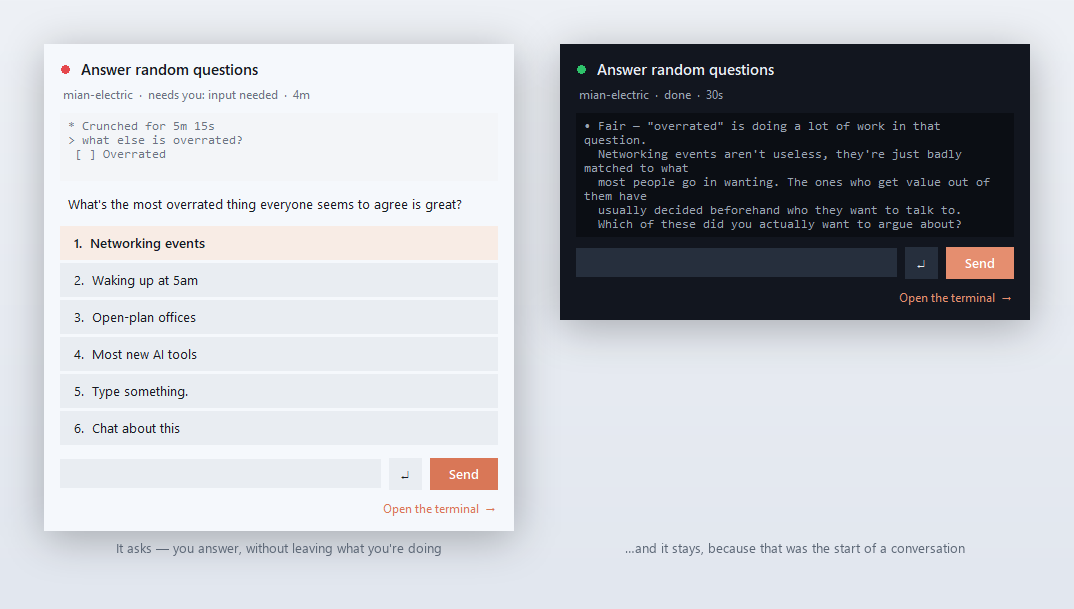
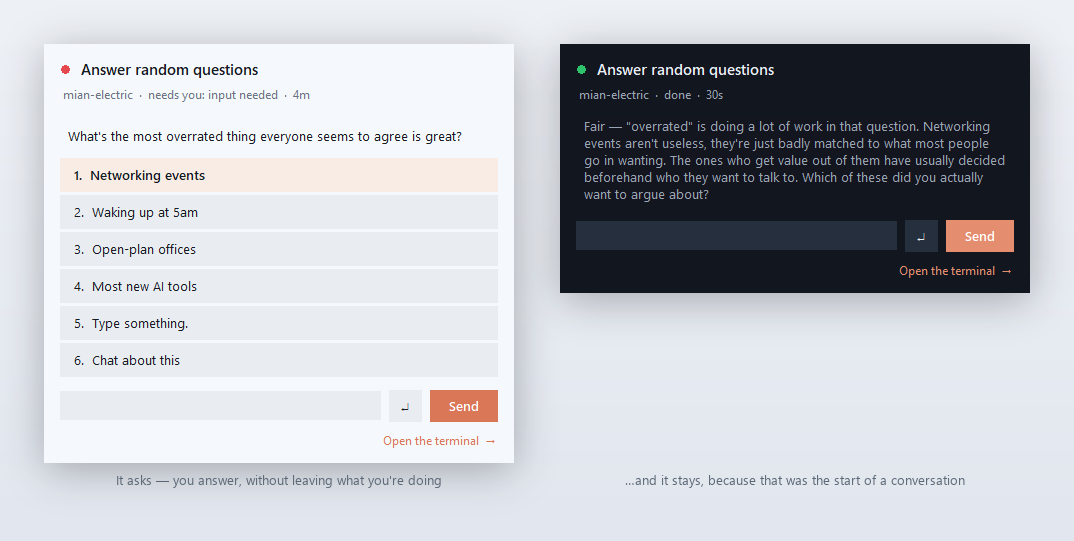
Drop the terminal mirror; say what the session said, once
The window carried a monospace copy of the session's screen above the
question. With the question and its choices drawn cleanly right below it,
that was the same thing twice — and the worse of the two: wrapped to the
terminal's width, studded with glyphs no UI font has, and full of Claude
Code's bookkeeping about how long it thought and what a tool returned.

The one thing it was carrying is the conversation. After "chat about this"
there is no question, and with nothing showing the reply the window would be
blank. So that case gets a sentence instead of a screen: what the session has
said since you last typed, rejoined into prose.

Since you last typed is the useful boundary. Everything above it you have
already read and answered; what is worth putting in front of you is the part
you haven't. Finding it means telling your input apart from the menu's
highlight marker — both begin with ">" — so a numbered option is explicitly
not treated as something you typed.

And when there is a question, the transcript is left out entirely.

The panel's absence takes its complications with it: no measuring wrapped
display lines against a widget that has no width yet, no second layout pass,
no history cap, no glyph substitution table.

diff --git a/widget_bar.py b/widget_bar.py
@@ -525,16 +525,13 @@ class AnswerWindow:
     not the end of one, and a window that vanished would send you to the
     terminal for the very thing it exists to save you.
 
-    So it stays, mirrors the session's own screen, and keeps taking input.
+    So it stays, shows what the session says back, and keeps taking input.
     Reading and writing both go by process id, so it follows that session
     whichever terminal tab it lives in.
     """
 
     W = 470
     POLL_MS = 900
-    VIEW_LINES = 14
-    MIN_LINES = 4
-    HISTORY = 40
 
     def __init__(self, root, theme, row, on_send, on_open_terminal,
                  poll=None, on_close=None):
@@ -593,20 +590,15 @@ class AnswerWindow:
         # Emptying one and leaving it in place does NOT work: Tk keeps the
         # height the frame last asked for, which leaves a band of dead space
         # where a question used to be.
-        self._view_box = tk.Frame(pad, bg=bg)
-        # A live mirror of the session's own screen: the conversation itself,
-        # which is what makes "chat about this" answerable from here.
-        # width=1 so the mirror never dictates how wide the window is — it
-        # fills whatever the question and the buttons ask for. wrap="word"
-        # because a terminal wider than this panel would otherwise have its
-        # lines quietly cut off at the right edge.
-        self._view = tk.Text(self._view_box, width=1, height=self.MIN_LINES,
-                             bg=T["key"], fg=dim, bd=0, relief="flat",
-                             wrap="word", font=("Consolas", 9),
-                             highlightthickness=0, insertwidth=0,
-                             padx=8, pady=6)
-        self._view.pack(fill="both", expand=True)
-        self._view.configure(state="disabled")
+        # What the session has said since you last typed — and only that. It
+        # carries the window while a conversation is going, and stays away
+        # entirely when there is a question, which says the same thing better
+        # in the lines right below.
+        self._reply_box = tk.Frame(pad, bg=bg)
+        self._reply = tk.Message(self._reply_box, text="", bg=bg, fg=dim,
+                                 font=("Segoe UI", 10), width=self.W - 44,
+                                 anchor="w", justify="left")
+        self._reply.pack(fill="x")
 
         self._note_box = tk.Frame(pad, bg=bg)
         self._note = tk.Label(self._note_box, text="", bg=bg, fg=dim,
@@ -657,7 +649,7 @@ class AnswerWindow:
         # Top to bottom. Sections not currently in use are left out entirely
         # rather than packed empty.
         self._sections = (
-            (self._view_box, {"fill": "both", "expand": True}),
+            (self._reply_box, {"fill": "x", "pady": (0, 4)}),
             (self._note_box, {"fill": "x", "pady": (8, 0)}),
             (self._q_box, {"fill": "x", "pady": (10, 4)}),
             (self._opts, {"fill": "x", "pady": (6, 0)}),
@@ -669,14 +661,6 @@ class AnswerWindow:
         self._render(self.row)
         self._place(root)
         self._tick()
-        # A second pass: the first one gave the window its size, and only now
-        # does the mirror have a width to measure its own wrapping against.
-        try:
-            self.top.update_idletasks()
-            self._show_screen(self._lines, self._upto)
-            self._place()
-        except Exception:
-            pass
         try:
             self.top.lift()
             self.top.focus_force()
@@ -736,8 +720,8 @@ class AnswerWindow:
             pass
 
     def _wanted(self, box):
-        if box is self._view_box:
-            return bool(self._lines)
+        if box is self._reply_box:
+            return bool(self._reply.cget("text"))
         if box is self._note_box:
             return bool(self._note.cget("text"))
         if box is self._q_box:
@@ -802,37 +786,15 @@ class AnswerWindow:
                       cursor="hand2").pack(side="left", padx=(0, 8),
                                            pady=(10, 0))
 
-    def _show_screen(self, lines, upto=None):
-        """Mirror the session's screen, stopping where the menu begins.
+    def _show_reply(self, lines, upto=None, question=""):
+        """Show what the session said, unless it is about to ask it anyway.
 
-        The choices are already drawn as buttons below; showing them twice
-        would just push the buttons off the bottom.
+        With a question on screen this would be the same words twice — the
+        transcript of it above, the point of it below.
         """
         try:
-            # Keep more than fits: the panel auto-sizes to VIEW_LINES, but a
-            # window the user has stretched should reward them with the
-            # history that was already there rather than more empty grey.
-            keep = sessions_core.screen_text(lines, upto, self.HISTORY)
-            self._view.configure(state="normal")
-            self._view.delete("1.0", "end")
-            self._view.insert("1.0", "\n".join(keep))
-            # Fit the panel to what's in it. A fixed height leaves a slab of
-            # empty grey above a two-line exchange, and hides half a long one.
-            shown = len(keep)
-            try:
-                # Settle the layout first: until the panel has its real width
-                # every line "wraps" into dozens, and the count comes back as
-                # the maximum every time.
-                self._view.update_idletasks()
-                if self._view.winfo_width() > 1:
-                    shown = int(
-                        self._view.count("1.0", "end", "displaylines")[0])
-            except Exception:
-                pass
-            self._view.configure(
-                height=max(self.MIN_LINES, min(self.VIEW_LINES, shown)))
-            self._view.see("end")
-            self._view.configure(state="disabled")
+            text = "" if question else sessions_core.latest_reply(lines, upto)
+            self._reply.configure(text=text)
         except Exception:
             pass
 
@@ -902,10 +864,10 @@ class AnswerWindow:
         if self.alive:
             self._lines = state.get("lines")
             self._upto = prompt["start"] if prompt else None
-            self._show_screen(self._lines, self._upto)
+            self._show_reply(self._lines, self._upto, row.get("question"))
         if not self.alive:
-            # Keep the last screen up — it is the only remaining record of what
-            # the session said — but nothing can be sent to it any more.
+            # The last thing it said stays up — it is the only remaining
+            # record of it — but nothing can be sent to it any more.
             self._set_note("This session has ended.")
             self._disable()
         elif not self.readable:

diff --git a/tests/test_sessions_core.py b/tests/test_sessions_core.py
@@ -951,41 +951,63 @@ def test_parse_console_prompt_marker_elsewhere():
     assert out["selected"] == 2 and len(out["options"]) == 3
 
 
-def test_screen_text_drops_the_furniture():
-    out = sc.screen_text(REAL_SCREEN)
-    assert "─────────────────────────────────────────────────" not in out, (
-        "a rule wraps onto two lines in a narrow panel and says nothing")
-    assert "> again" in out, "what the user typed is not furniture"
+# --------------------------------------------------------------------------- #
+# What a session has said since you last typed
+# --------------------------------------------------------------------------- #
+TALKING = [
+    "⏺ An older answer you have already read.",
+    "> put the breaking changes at the top",
+    "⏺ Right — they get their own section, above everything else.",
+    "  Two of the four are only breaking if you were relying on the old",
+    "  default, so I'll say which.",
+    "",
+    "  Do you want the old default documented as well?",
+    "> ",
+]
 
 
-def test_screen_text_stops_at_the_prompt():
+def test_latest_reply_starts_after_your_last_input():
+    out = sc.latest_reply(TALKING)
+    assert out.startswith("Right — they get their own section")
+    assert "already read" not in out, (
+        "you answered that one — what makes this worth showing is the part "
+        "you haven't")
+
+
+def test_latest_reply_rejoins_the_terminals_wrapping():
+    out = sc.latest_reply(TALKING)
+    assert "the old default, so I'll say which." in out, (
+        "a line break at the terminal's width is not a sentence ending")
+    assert "\n" not in out
+
+
+def test_latest_reply_drops_the_bookkeeping():
+    out = sc.latest_reply(["> go on", "✻ Cogitated for 14s",
+                           "⎿  Read 4 files (312 lines)", " [ ] Bad advice",
+                           "⏺ Here's what I found."])
+    assert out == "Here's what I found.", (
+        "how long it thought and what a tool returned is not it talking")
+
+
+def test_latest_reply_is_empty_when_it_has_not_spoken():
+    assert sc.latest_reply(["> just do it", "✻ Cogitated for 14s"]) == ""
+    assert sc.latest_reply(None) == "" and sc.latest_reply([]) == ""
+
+
+def test_latest_reply_does_not_mistake_a_menu_choice_for_your_input():
+    out = sc.latest_reply(["⏺ Which way round?", "> 1. First", "  2. Second"])
+    assert out.startswith("Which way round?"), (
+        "'> 1.' is the menu's highlight marker, not something you typed")
+
+
+def test_latest_reply_stops_at_the_prompt():
     start = sc.parse_console_prompt(REAL_SCREEN)["start"]
-    out = sc.screen_text(REAL_SCREEN, upto=start)
-    assert not any("Networking events" in line for line in out), (
-        "the caller is drawing those as buttons")
-    assert "> again" in out
+    assert "Networking events" not in sc.latest_reply(REAL_SCREEN, upto=start)
 
 
-def test_screen_text_keeps_the_end_not_the_beginning():
-    out = sc.screen_text([f"line {n}" for n in range(40)], limit=3)
-    assert out == ["line 37", "line 38", "line 39"], (
-        "the newest output is the part worth showing")
-
-
-def test_screen_text_swaps_glyphs_a_mono_font_lacks():
-    out = sc.screen_text(["⏺ Read 4 files", "  ⎿  312 lines"])
-    assert out == ["• Read 4 files", "  └  312 lines"], (
-        "Consolas has no ⏺ or ⎿ — left alone they draw as empty boxes on "
-        "nearly every line, which reads as a broken panel")
-
-
-def test_screen_text_leaves_the_words_alone():
-    line = "  Networking events aren't useless — they're badly matched."
-    assert sc.screen_text([line]) == [line]
-
-
-def test_screen_text_survives_nothing():
-    assert sc.screen_text(None) == [] and sc.screen_text([]) == []
+def test_latest_reply_is_capped():
+    out = sc.latest_reply(["⏺ " + "word " * 400], max_chars=120)
+    assert len(out) <= 120
 
 
 def test_parse_console_prompt_needs_the_menu_hint():

diff --git a/tests/test_answer_window.py b/tests/test_answer_window.py
@@ -110,8 +110,8 @@ class Harness:
     def quick(self):
         return [b.cget("text") for b in self.win._quick.winfo_children()]
 
-    def mirror(self):
-        return self.win._view.get("1.0", "end").strip()
+    def reply(self):
+        return self.win._reply.cget("text")
 
     def note(self):
         return self.win._note.cget("text")
@@ -165,13 +165,11 @@ def test_a_menu_leaves_out_yes_no(harness):
         "Yes and No mean nothing against a numbered menu")
 
 
-def test_the_mirror_stops_where_the_menu_starts(harness):
+def test_a_question_crowds_out_the_transcript(harness):
     h = harness([_state()])
-    text = h.mirror()
-    assert "Reading the release notes" in text
-    assert "Call them out at the top" not in text, (
-        "the options are drawn as buttons below — repeating them in the "
-        "mirror just pushes the buttons off the bottom")
+    assert h.reply() == "", (
+        "the question and its choices say it better right below — showing "
+        "the terminal's version of the same thing above is noise")
 
 
 def test_picking_an_option_sends_its_number(harness):
@@ -206,9 +204,24 @@ def test_the_menu_gives_way_to_the_conversation(harness):
     h.win._tick()
     h.pump()
     assert h.buttons() == [], "the question has been answered"
-    assert "put them at the top" in h.mirror(), (
-        "what it said back is the reason to keep watching")
+    assert "put them at the top" in h.reply(), (
+        "what it said back is the whole reason the window stayed")
     assert h.win._entry.cget("state") == "normal"
+
+
+def test_only_what_it_said_since_you_last_typed(harness):
+    h = harness([_state(["⏺ An older answer nobody needs again.",
+                         "> put them at the top",
+                         "⏺ Done — they're in their own section now.",
+                         "> "])])
+    assert h.reply() == "Done — they're in their own section now."
+
+
+def test_the_transcript_is_prose_not_a_terminal(harness):
+    h = harness([_state(CHAT)])
+    assert "\n" not in h.reply() and "⏺" not in h.reply(), (
+        "terminal lines are wrapped to the terminal's width and marked with "
+        "glyphs a UI font lacks — the sentence is what matters")
 
 
 def test_a_failed_send_says_why_and_keeps_the_text(harness):
@@ -352,14 +365,10 @@ def test_the_window_settling_into_place_is_not_a_resize(harness):
     assert h.win._user_sized is False
 
 
-def test_more_history_is_kept_than_is_shown(harness):
-    long_run = [f"  line {n}" for n in range(60)]
-    h = harness([_state(long_run)])
-    text = h.mirror()
-    assert text.count("\n") + 1 > widget_bar.AnswerWindow.VIEW_LINES, (
-        "a stretched window should reveal history that was already there, "
-        "not more empty panel")
-    assert "line 59" in text and "line 0" not in text
+def test_nothing_said_yet_shows_no_transcript(harness):
+    h = harness([_state(["> just do it", "✻ Cogitated for 14s"])])
+    assert h.reply() == "", (
+        "an empty box where a sentence goes reads as something failing")
 
 
 # --------------------------------------------------------------------------- #

diff --git a/sessions_core.py b/sessions_core.py
@@ -1344,30 +1344,42 @@ def _is_noise(line: str) -> bool:
     return len(letters) / len(stripped) < 0.35
 
 
-#: Claude Code's TUI glyphs, and the nearest thing a monospace UI font has.
-#: Left as-is they draw as empty boxes on nearly every line of output, which
-#: reads as a broken panel rather than as a session talking.
-_SCREEN_GLYPHS = str.maketrans({
-    "⏺": "•", "⧉": "•", "✻": "*", "✽": "*", "✢": "*", "✶": "*",
-    "⎿": "└", "⏵": ">", "❯": ">", "·": "·",
-})
+#: A line the user typed, echoed back. Deliberately NOT a numbered option:
+#: "> 1. Keep it" is the menu's highlight marker, not something you said.
+_USER_LINE_RE = re.compile(r"^\s*[>❯⏵]\s*(?!\d{1,2}[.)]\s)(\S.*)$")
+
+#: Claude Code's own bookkeeping: how long it thought, what a tool returned,
+#: which topic a question belongs to. None of it is the session talking.
+_ASIDE_RE = re.compile(r"^\s*(?:[✻✽✢✶*]\s|[⎿└]|\[.?\]\s|\d+\s*(?:tokens|lines))")
+
+#: The bullet Claude Code puts in front of what it says.
+_SAID = " ⏺•⧉\t"
 
 
-def screen_text(lines, upto=None, limit: int = 14):
-    """A session's screen, tidied enough to read in a small panel.
+def latest_reply(lines, upto=None, max_chars: int = 600):
+    """What the session has said since you last typed, as one piece of prose.
 
-    Drops the rules, spinners and empty prompt lines a TUI draws to fill its
-    window: each of them wraps onto two lines in a panel this narrow, and none
-    of them says anything. What is left is what the session actually wrote.
+    Terminal output is wrapped to the terminal's width and studded with
+    glyphs a UI font doesn't have, so it is rejoined rather than mirrored —
+    what matters is the sentence, not the column it broke at.
 
-    *upto* trims at the start of a prompt, for callers that are already showing
-    that prompt's choices as buttons.
+    Anything before your last input is left out: you have already read it, and
+    what makes this worth showing is the part you haven't answered yet.
     """
     rows = list(lines or [])
     if upto is not None and 0 < upto <= len(rows):
         rows = rows[:upto]
-    return [row.translate(_SCREEN_GLYPHS)
-            for row in rows if not _is_noise(row)][-limit:]
+    start = 0
+    for index, row in enumerate(rows):
+        if _USER_LINE_RE.match(row):
+            start = index + 1
+    said = []
+    for row in rows[start:]:
+        if _is_noise(row) or _ASIDE_RE.match(row) or _USER_LINE_RE.match(row):
+            continue
+        said.append(row.strip().lstrip(_SAID).strip())
+    text = oneline(" ".join(part for part in said if part), max_chars)
+    return text
 
 
 def parse_console_prompt(lines):

diff --git a/README.md b/README.md
@@ -160,7 +160,7 @@ Clicking a blocked session opens it in a small window showing **the question it 
 
 The question comes off the session's own screen, because that is the only place it exists — Claude Code's transcript records a tool call *after* it has been answered, so while a session is waiting the transcript doesn't know what it asked.
 
-The window **stays open** once you answer. Choosing *"chat about this"* starts a conversation, not an ending, so it keeps mirroring the session and keeps taking messages — you only go to the terminal if you want to.
+The window **stays open** once you answer. Choosing *"chat about this"* starts a conversation, not an ending, so it shows what the session says back and keeps taking messages — you only go to the terminal if you want to. What it says is shown as prose rather than as a copy of the terminal: output is wrapped to the terminal's width and studded with glyphs, and the sentence is the part that matters.
 
 It handles the rest of what a session can do to you: it says when one is **working** (anything you send is queued, exactly as typing into the terminal would be), when a menu **moved** under your pointer (that choice is refused rather than sent to a question you never read), and when the session has **ended** (the last thing it said stays up; nothing more can be sent).
 
